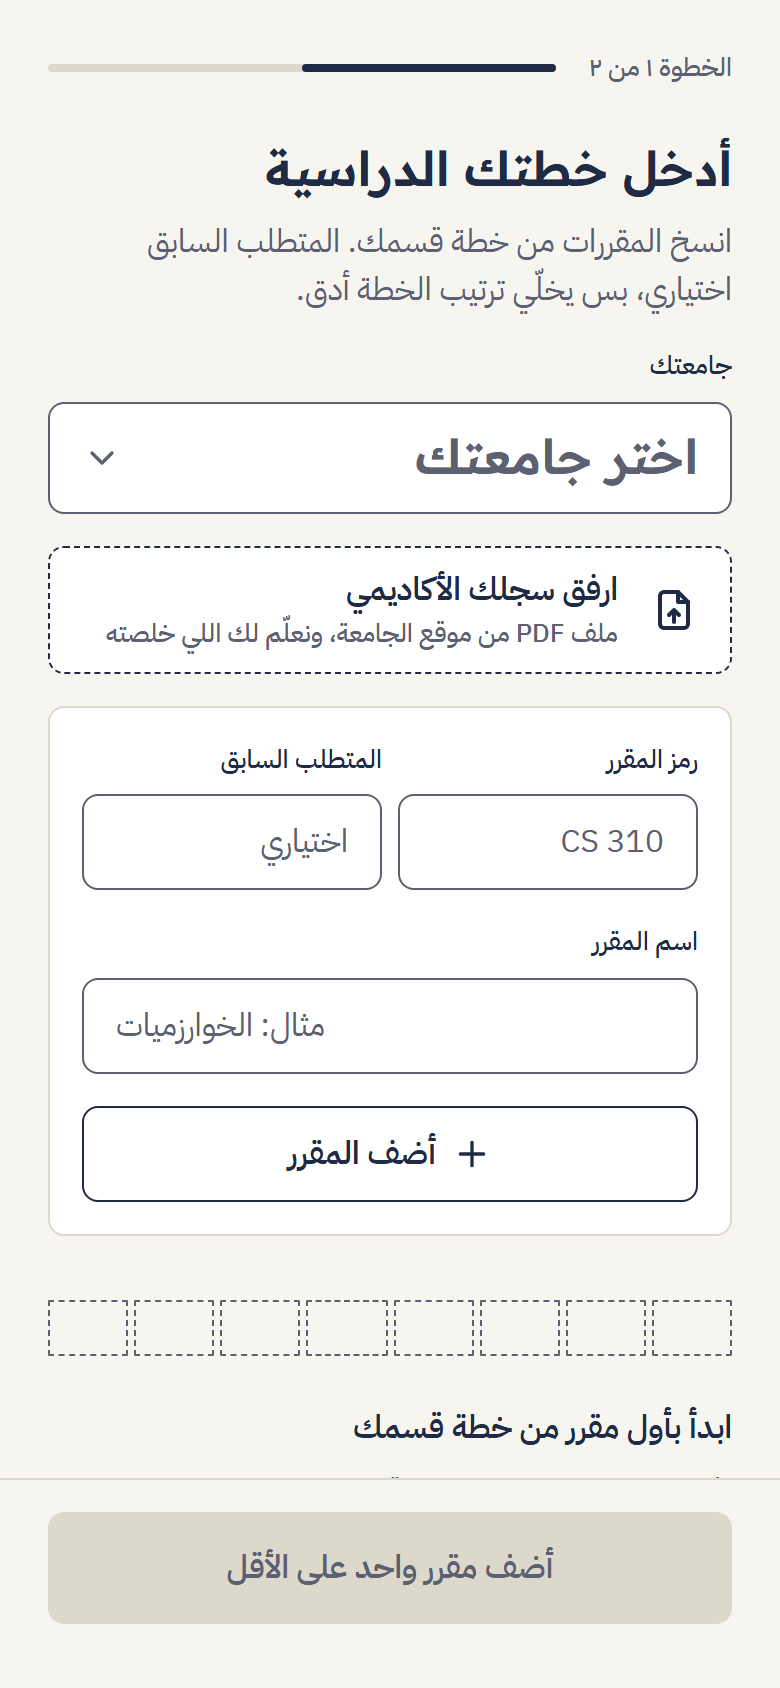
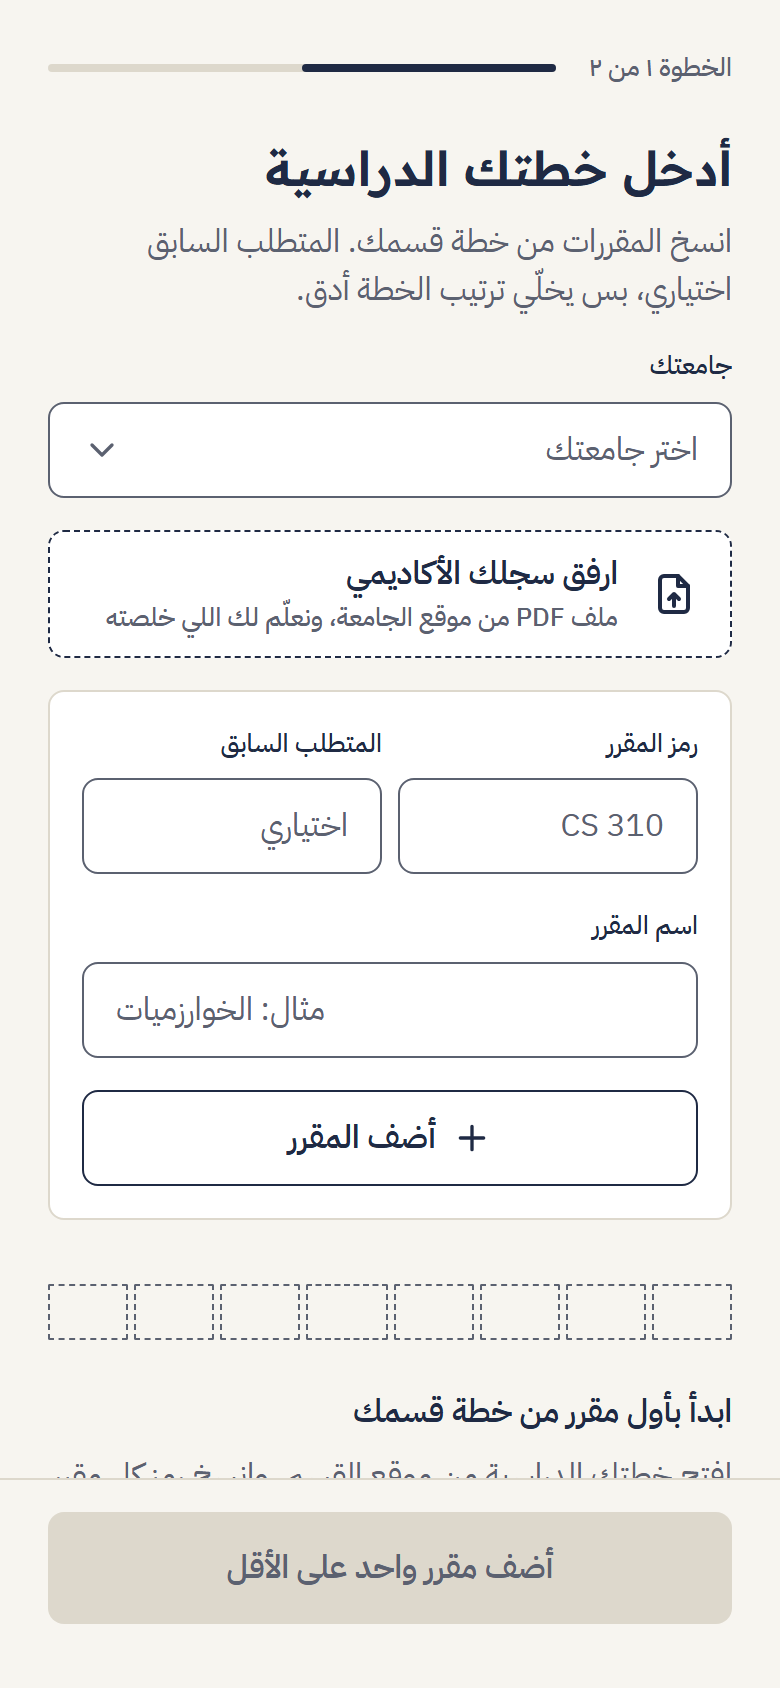
University picker: back to normal 16px text

diff --git a/web/src/features/input/input.css b/web/src/features/input/input.css
@@ -59,9 +59,3 @@
 
 /* University picker (added on request): above the upload card */
 .input-university { margin: 0 var(--space-3) var(--space-2); }
-/* Decision 26: the picker uses the Title size (DESIGN.md: Readex Pro 24/600), in a 56px box; long names wrap. */
-.select--title { min-block-size: var(--row-min); }
-.select--title .select__value {
-  font-family: var(--font-display); font-size: var(--text-title); font-weight: var(--weight-semibold);
-  line-height: var(--leading-title);
-}

diff --git a/web/src/features/input/InputScreen.jsx b/web/src/features/input/InputScreen.jsx
@@ -152,7 +152,6 @@ export default function InputScreen() {
 
       <div className="input-university">
         <SelectField
-          className="select--title"
           label={t('input.university.label')}
           placeholder={t('input.university.placeholder')}
           value={university}

diff --git a/HANDOFF.md b/HANDOFF.md
@@ -258,4 +258,4 @@ Numbers in `{n}` are shown with Arabic-Indic digits. `{code}` stays Latin.
 23. Screen 1 gets «امسح كل المقررات وابدأ من جديد» under the list (asks to confirm; clears courses, major and saved path on this device; keeps the university). Needed to reset between test students.
 24. Screen 1 starts with an optional «جامعتك» picker (native select: scroll wheel on iPhone). Riyadh universities + «جامعة ثانية». Saved with the plan, not used in the logic yet.
 25. The picker lists only the biggest universities: King Saud, Imam, Princess Nourah, King Saud bin Abdulaziz for Health Sciences, Saudi Electronic, and KFUPM (Dhahran, added on request), plus «جامعة ثانية». No logos (trademarks; the native picker cannot show images).
-26. The picker text uses the Title size (Readex Pro 24/600) in a 56px box. The native select sits invisibly over a text box so long names wrap instead of being cut.
+26. The picker uses the normal input size (16px, 48px box), like the other fields (24px was tried and reverted). The native select sits invisibly over a text box so long names wrap instead of being cut.
